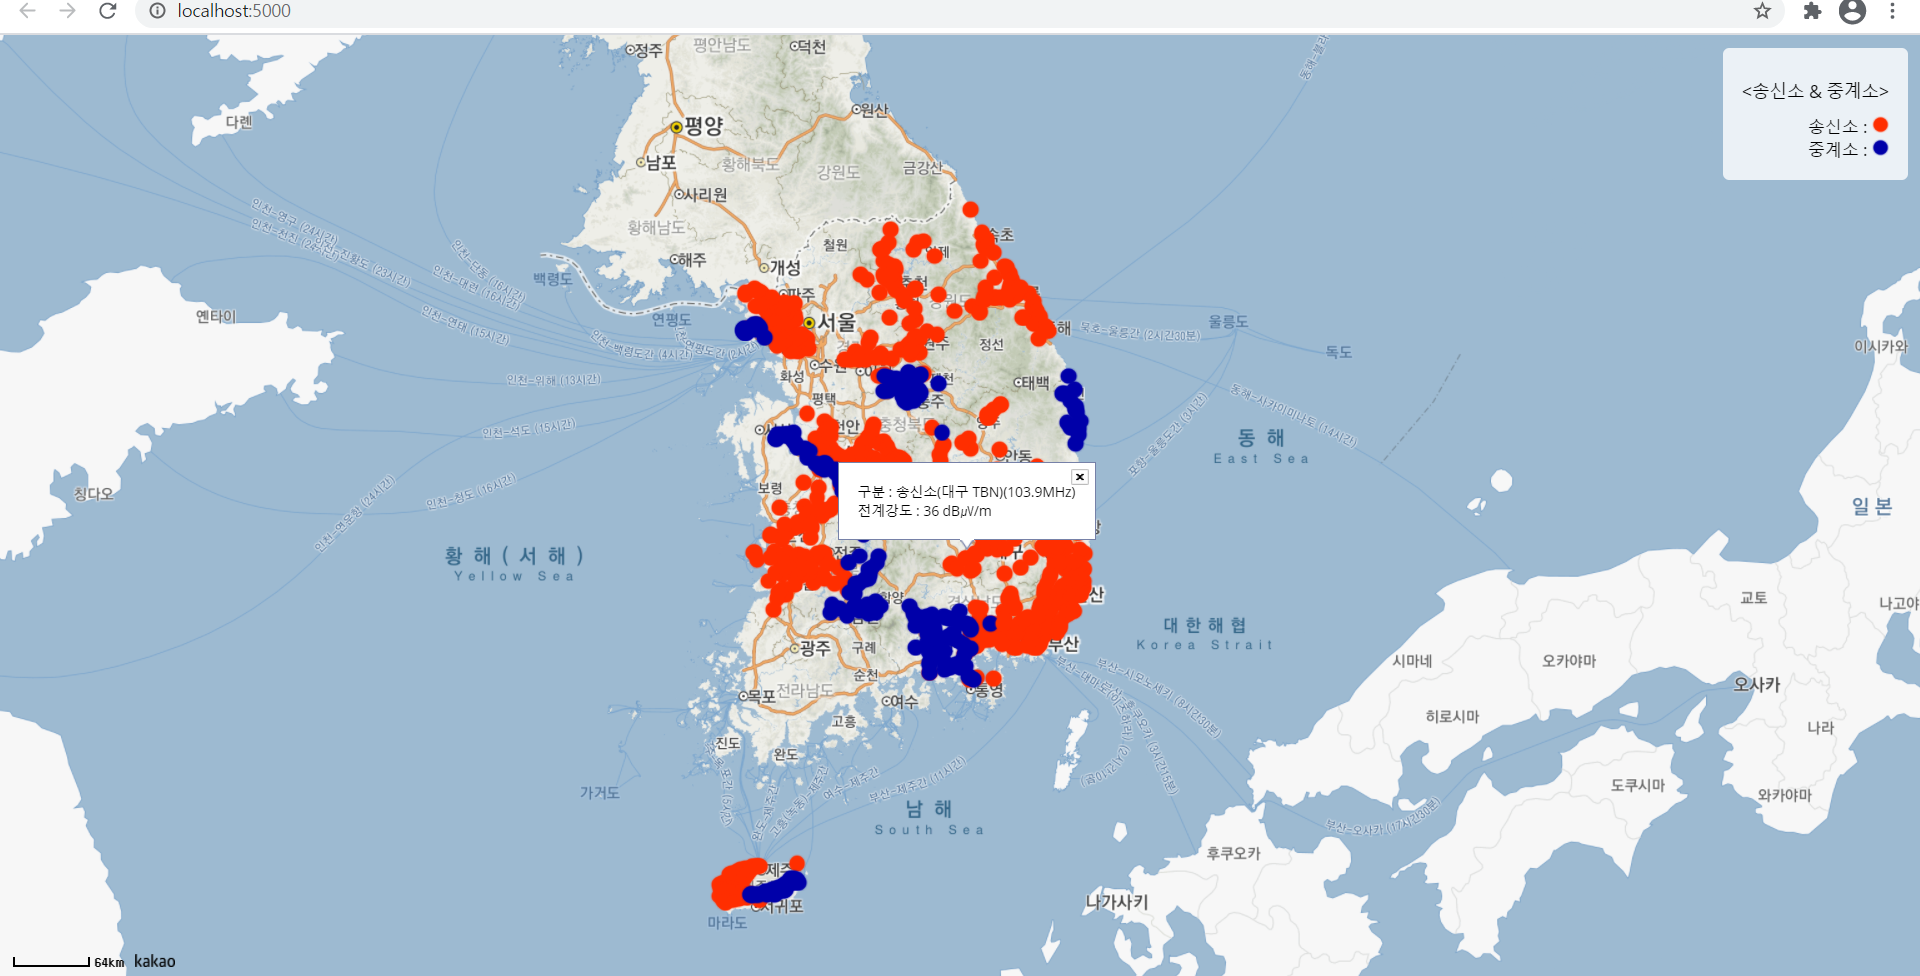
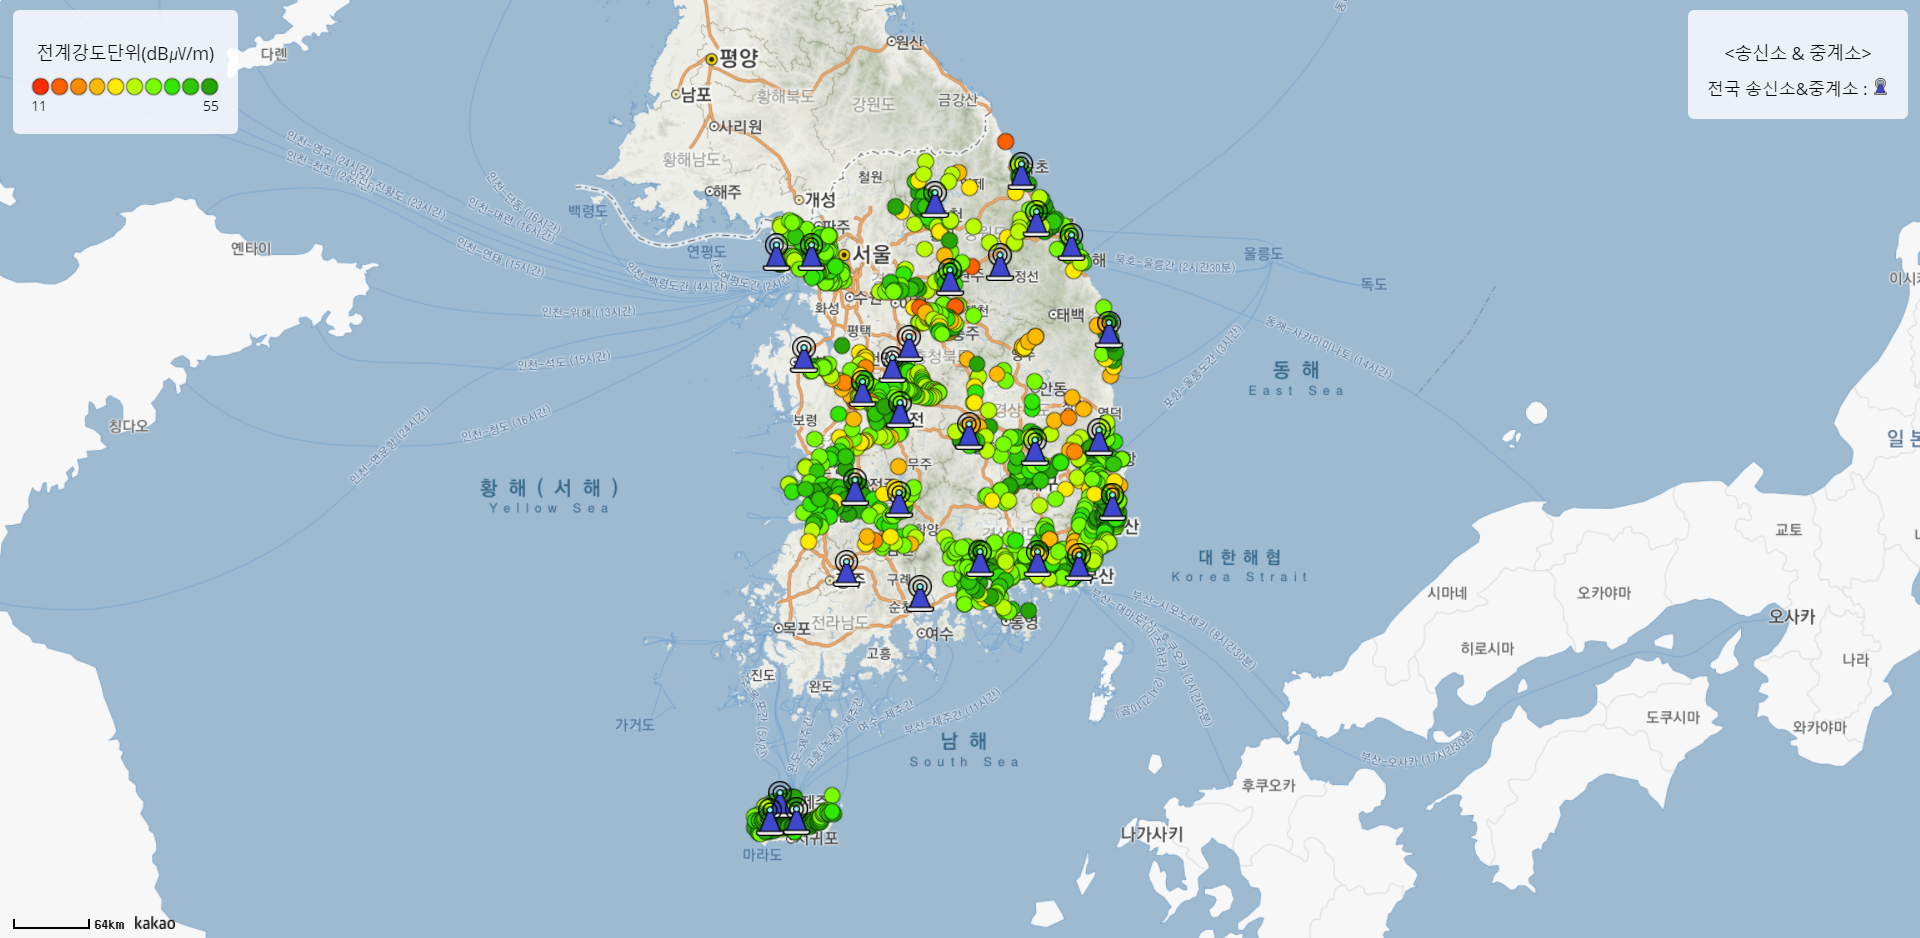
2020-12-23

diff --git a/static/js/main.js b/static/js/main.js
@@ -14,8 +14,44 @@ var infowindow = new kakao.maps.InfoWindow({
 });
 
 // 마커를 생성하고 지도 위에 마커를 표시하는 함수
-function addMarker(position, idx) {
-    var imageSrc = "https://github.com/wowx1001/comstation/blob/master/static/img/1.png?raw=true", // 마커 이미지 url, 스프라이트 이미지를 씁니다
+function addMarker(position, f_s) {
+    var f_s_case = parseFloat(f_s);
+    switch (true) {
+        case f_s_case > 50.6 :
+            imgnumber = '10';
+            break;
+        case f_s_case > 46.2 :
+            imgnumber = '9';
+            break;
+        case f_s_case > 41.8 :
+            imgnumber = '8';
+            break;
+        case f_s_case > 37.4 :
+            imgnumber = '7';
+            break;
+        case f_s_case > 33 :
+            imgnumber = '7';
+            break;
+        case f_s_case > 28.6 :
+            imgnumber = '6';
+            break;
+        case f_s_case > 24.2 :
+            imgnumber = '5';
+            break;    
+        case f_s_case > 19.8 :
+            imgnumber = '4';
+            break;    
+        case f_s_case > 15.4 :
+            imgnumber = '3';
+            break;    
+        case f_s_case > 11 :
+            imgnumber = '2';
+            break;    
+        default :
+            imgnumber = '1';
+            break;
+      }
+    var imageSrc = "https://github.com/wowx1001/comstation/blob/master/static/img/"+imgnumber+".png?raw=true", // 마커 이미지 url, 스프라이트 이미지를 씁니다
         imageSize = new kakao.maps.Size(15, 15),  // 마커 이미지의 크기
         markerImage = new kakao.maps.MarkerImage(imageSrc, imageSize),
         marker = new kakao.maps.Marker({
@@ -69,7 +105,7 @@ function draw_marker(data){
     for ( var i=0; i<Object.keys(data['번호']).length; i++ ) {
         // 마커를 생성하고 지도에 표시합니다
         var placePosition = new kakao.maps.LatLng(parseFloat(data['위도'][i]), parseFloat(data['경도'][i])),
-        marker = addMarker(placePosition, data['구분'][i]);
+        marker = addMarker(placePosition, data['전계강도(dB㎶/m)'][i]);
         type = data['구분'][i];
         f_s = data['전계강도(dB㎶/m)'][i];
         freq = data['주파수'][i];
@@ -112,13 +148,19 @@ $.ajax({
     }
 })
 $.ajax({
-type: 'POST',
-url: '/tw',
-contentType: "application/json",
-success: function(data){
-    all_region_marker(data);
-},
-error: function(){
-    alert('ajax 통신 실패');
-}
+    type: 'POST',
+    url: '/tw',
+    contentType: "application/json",
+    success: function(data){
+        all_region_marker(data);
+    },
+    error: function(){
+        alert('ajax 통신 실패');
+    }
 })
+
+$( document ).ready(function() {
+    for(i=1;i<11;i++){
+        $('#img-list').append("<li><img src='https://github.com/wowx1001/comstation/blob/master/static/img/"+String(i)+".png?raw=true'></img></li>");        
+    }
+});

diff --git a/templates/main.html b/templates/main.html
@@ -24,10 +24,19 @@
             text-align: right;
         }
         #modal{
-            
             position:absolute; padding:15px; top:10px; right:10px; z-index: 99; background-color: rgba(255,255,255,0.8); 
             border-radius: 5px;
             font-size: 11px;
+        }
+        #left-modal{
+            position:absolute; padding:15px; top:10px; left:10px; z-index: 99; background-color: rgba(255,255,255,0.8); 
+            border-radius: 5px;
+            font-size: 11px;
+        }
+        #img-list{list-style: none;text-align: center; margin: 0 0; padding: 0 0;}
+        #img-list li{float:left;height:15px;width:15px;}
+        #img-list li img{
+            height:15px;width:15px;
         }
     </style>
 </head>
@@ -37,15 +46,18 @@
 <div id="modal">
     <div style="text-align: center; margin-top: 10px; margin-bottom: 10px; font-size: 14px;">&lt;송신소 & 중계소&gt;</div>
     <div>
-        <label for="img1">지역별 송신소&중계소 : </label>
-        <img id="img1" src="https://github.com/wowx1001/comstation/blob/master/static/img/1.png?raw=true"></img>
-    </div>
-    <div>
         <label for="img3">전국 송신소&중계소 : </label>
         <img id="img3" src="https://github.com/wowx1001/comstation/blob/master/static/img/Transmission tower.png?raw=true"></img>
     </div>
 </div>
-<script type="text/javascript" src="//dapi.kakao.com/v2/maps/sdk.js?appkey=본인의 api 키"></script>
+<div id="left-modal">
+    <div style="text-align: center; margin-top: 10px; margin-bottom: 10px; font-size: 14px;"> 전계강도단위(dB㎶/m) </div>
+    <ul id="img-list"></ul>
+    <label id="smallest">11</label>
+    <label id="largest" style="float:right">55</label>
+</div>
+
+<script type="text/javascript" src="//dapi.kakao.com/v2/maps/sdk.js?appkey=자신의 api키 입력"></script>
 <script src="https://code.jquery.com/jquery-latest.min.js" type="application/javascript"></script>
 <script src="{{url_for('static', filename='js/main.js')}}"></script>
 </body>

diff --git a/main.py b/main.py
@@ -4,6 +4,7 @@ import flask_jsonpify
 import json
 
 all_com = json.loads(pd.read_csv('data/all_com.csv', encoding='utf8').to_json(orient='columns', force_ascii=False))
+all_tw = json.loads(pd.read_csv('data/12.csv', encoding='utf8').to_json(orient='columns', force_ascii=False))
 app = Flask(__name__)
 
 @app.route('/')
@@ -13,6 +14,10 @@ def home():
 @app.route('/req',methods=['POST'])
 def load_data():
     return flask_jsonpify.jsonify(all_com)
+
+@app.route('/tw',methods=['POST'])
+def tw_load_data():
+    return flask_jsonpify.jsonify(all_tw)
 
 if __name__ == '__main__':
     app.run(host="0.0.0.0",debug=True)
